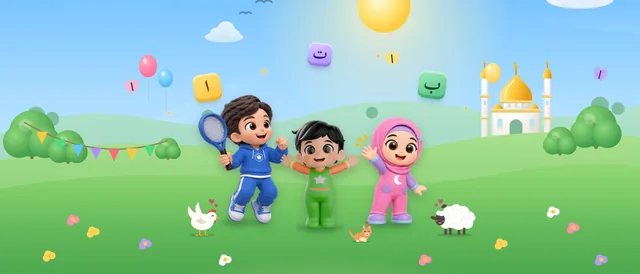
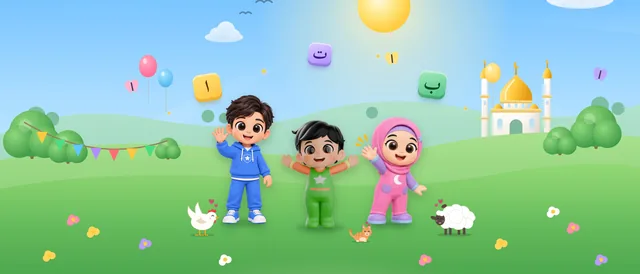
App Store header art: sharper Kak Adam render (wave hello)
Claude-Session: https://claude.ai/code/session_013wiJDRdH28m1FqwwMnvbtM

Changed region(s): [[0.3125, 0.3504, 0.4688, 0.8175]]

diff --git a/app/app-store-kit/page.tsx b/app/app-store-kit/page.tsx
@@ -277,7 +277,7 @@ export default function AppStoreKit() {
           ))}
 
           <h2 id="creative">Header &amp; Search Results</h2>
-          <p className="lead">The product page header and the search-results artwork (App Store Connect → Product Page Information → <b>Header and Search Results</b>). No transparency, as Apple requires. <b>✨ Updated 11 Nov 2026:</b> livelier scene (sun rays, puffy clouds, golden-dome mosque, trees, bunting, balloons, butterflies and flowers); Baby Mo and Ais the same height, Kak Adam a little taller. <b>✨ New design:</b> the App Store shows the header zoomed and cropped, with the status bar and the back/share buttons on top and the app card over the bottom, so a headline at the top got cut off. The new art has <b>no text</b> (your app name and subtitle already sit right below it); Baby Mo, Kak Adam and Ais stand together in the centre band, with sky at the top and grass at the bottom, so nothing important is ever hidden. The ID and EN files are the same picture; upload them to both localizations. Upload the <b>ID</b> files to the Indonesian localization and the <b>EN</b> files to English (U.S.).</p>
+          <p className="lead">The product page header and the search-results artwork (App Store Connect → Product Page Information → <b>Header and Search Results</b>). No transparency, as Apple requires. <b>✨ Updated 12 Nov 2026:</b> Kak Adam is now the sharper waving render (was a softer tennis pose). <b>11 Nov 2026:</b> livelier scene (sun rays, puffy clouds, golden-dome mosque, trees, bunting, balloons, butterflies and flowers); Baby Mo and Ais the same height, Kak Adam a little taller. <b>✨ New design:</b> the App Store shows the header zoomed and cropped, with the status bar and the back/share buttons on top and the app card over the bottom, so a headline at the top got cut off. The new art has <b>no text</b> (your app name and subtitle already sit right below it); Baby Mo, Kak Adam and Ais stand together in the centre band, with sky at the top and grass at the bottom, so nothing important is ever hidden. The ID and EN files are the same picture; upload them to both localizations. Upload the <b>ID</b> files to the Indonesian localization and the <b>EN</b> files to English (U.S.).</p>
           <section className="group" id="creative-assets">
             <div className="ghead">
               <div><h3>Header &amp; search artwork · ID + EN</h3><p>6 images · Baby Mo, Kak Adam and Ais with the farm friends and hijaiyah blocks</p></div>
